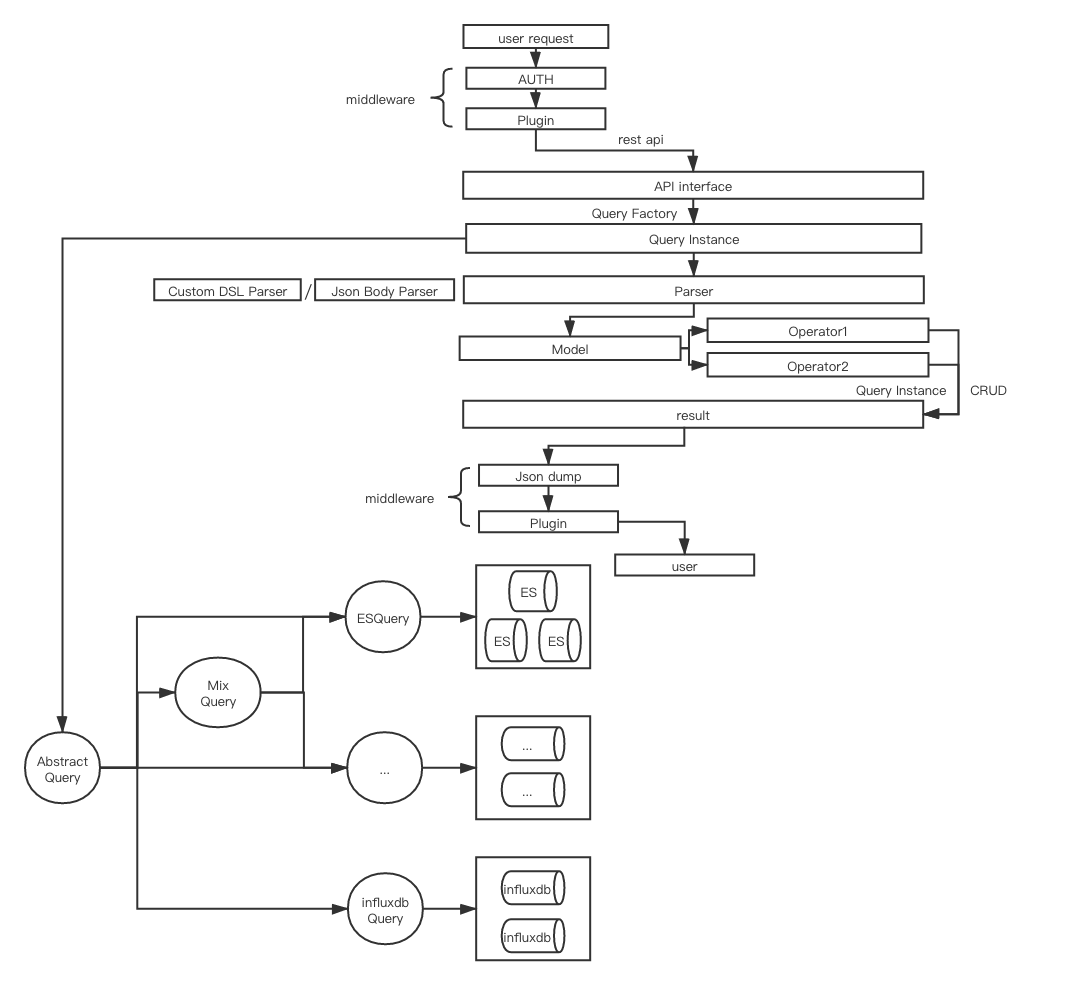
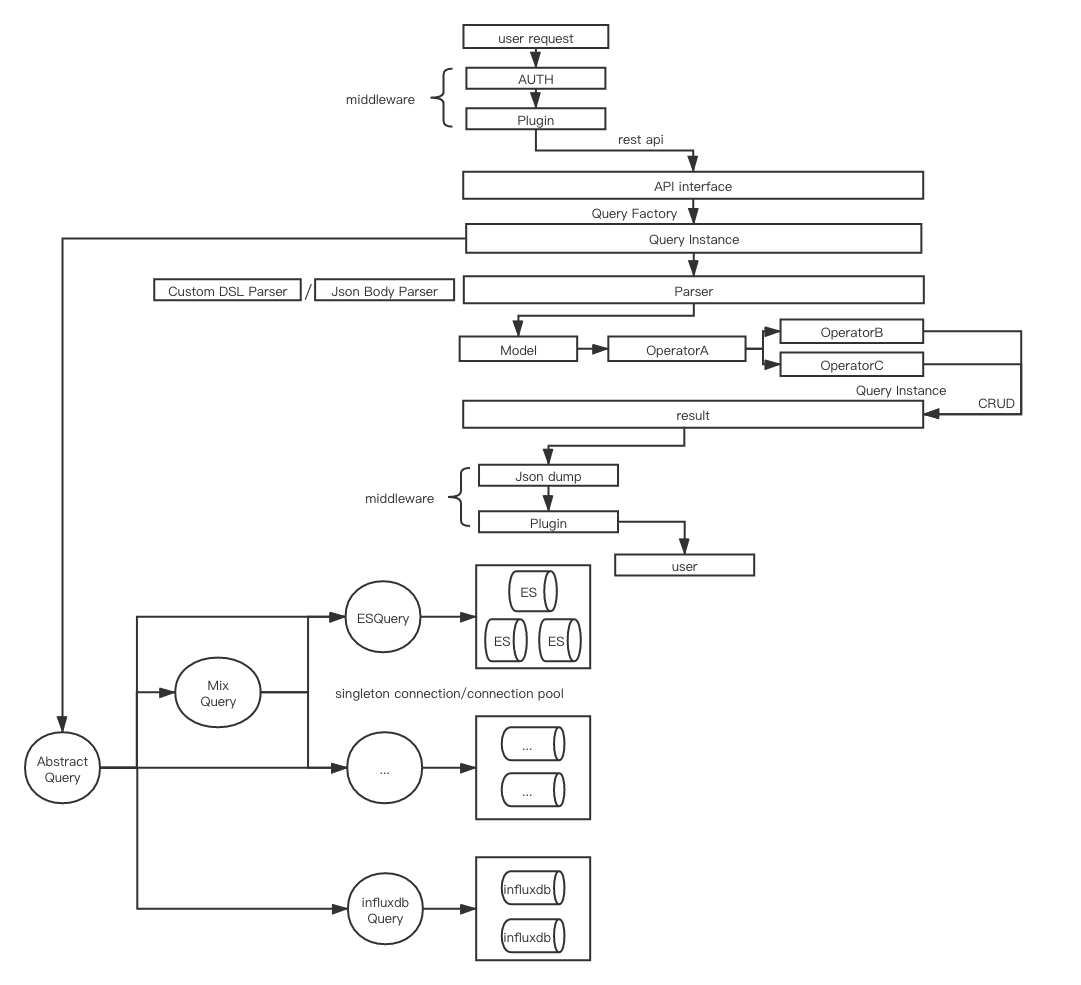
async influxdv backend support 50%

diff --git a/apps/influxdb/view.py b/apps/influxdb/view.py
@@ -3,20 +3,19 @@ from sanic_restplus import Resource
 from libs.rest import RestAssoc
 from libs.exception import Code
 from query.query_factory import QueryFactory
-ns = RestAssoc.ns_es
+ns = RestAssoc.ns_influx
 api = RestAssoc.api
-name = "es"
+name = "influx"
 
 
 @ns.route('/node')
-class ESNodes(Resource):
+class InFluxNodes(Resource):
     @ns.doc('list_all')
     async def get(self, request):
         """
-        list all nodes in a cluster
+        list all nodes in a cluster(Not implemented yet, The free version does not support cluster(太穷了😢))
         """
-        query = QueryFactory.create_query(name)
-        return await query.list()
+        raise Code.CurrentlyNotSupport
 
     @ns.doc('malloc_new_node')
     async def post(self, request):
@@ -26,21 +25,48 @@ class ESNodes(Resource):
         raise Code.CurrentlyNotSupport
 
 
-@ns.route('/index')
-class ESList(Resource):
-    @ns.doc('list_all_index')
+@ns.route('/db')
+class InFluxDBs(Resource):
+    @ns.doc('list_all_database')
     async def get(self, request):
         """
-        list all indexes in a cluster
+        list all databases
+        """
+        query = QueryFactory.create_query(name, {"db": "default"})
+        return await query.list()
+
+    @ns.doc('malloc_new_database')
+    @ns.param("json body", "json body", _in="body", example={"db": "testdb"})
+    async def post(self, request):
+        """
+        create a new database
+        """
+        query = QueryFactory.create_query(name, request.json)
+        return await query.create_meta()
+
+    @ns.doc('delete_database')
+    @ns.param("json body", "json body", _in="body", example={"db": "testdb"})
+    async def delete(self, request):
+        """
+        drop a database
+        """
+        query = QueryFactory.create_query(name, request.json)
+        return await query.delete_meta()
+
+
+@ns.route('/<db:string>/<measurement:string>')
+@ns.route('/<db:string>')
+class InFluxList(Resource):
+    @ns.doc('list_all_measurement')
+    async def get(self, request, db, measurement):
+        """
+        list all measurements in a db
         """
         query = QueryFactory.create_query(name, request.json)
         return await query.search_meta()
 
-    @ns.doc('create_new_index')
-    @ns.param("json body", "json body", _in="body", example={
-        "index": "twitter", 'settings': {'number_of_shards': 1},
-        'mappings': {'properties': {'field1': {'type': 'text'}}}})
-    async def post(self, request):
+    @ns.doc('create_new_measurement')
+    async def put(self, request, db, measurement):
         """
         create a new index in a cluster
         """
@@ -51,7 +77,7 @@ class ESList(Resource):
 
     @ns.doc('delete_given_index')
     @ns.param("index", "index name", _in="query", default="twitter")
-    async def delete(self, request):
+    async def delete(self, request, measurement):
         """
         delete a given index
         """
@@ -64,9 +90,8 @@ class ESList(Resource):
             return res
 
 
-@ns.route('/<index:string>')
-@ns.param('index', 'The index name')
-class ESData(Resource):
+@ns.route('/<db:string>/<measurement:string>/crud')
+class InFluxData(Resource):
     """act as a proxy and delegate your CRUD query to the real backend"""
 
     @ns.doc('get_data')
@@ -85,7 +110,7 @@ class ESData(Resource):
 
     @ns.doc('update_data')
     async def put(self, request, index):
-        """forward DSL to given index"""
+        """insert data"""
         request.json["index"] = index
         query = QueryFactory.create_query(name, request.json)
         return await query.update_data()

diff --git a/query/influx_query.py b/query/influx_query.py
@@ -1,0 +1,81 @@
+# -*- coding: utf-8 -*-
+from .base_query import Query
+from libs.db_util import DBUtil
+from libs.code import Code
+
+
+class InfluxQuery(Query):
+    def __init__(self, parsed_param):
+        super().__init__(parsed_param)
+        self.db_instance = DBUtil.influxdb[parsed_param["db"]]
+
+    async def create_meta(self, type_="database"):
+        """
+        create meta data according to param
+        :return:
+        """
+        if type_ == "database":
+            db = self.param["db"]
+            return await self.db_instance.create_database(db=db)
+        raise NotImplementedError("type: %s not implemented" % (type_, ))
+
+    async def create_data(self):
+        """
+        create data according to param
+        :return:
+        """
+        pass
+
+    async def search_meta(self):
+        """
+        search meta data
+        :return:
+        """
+        pass
+
+    async def search_data(self):
+        """
+        search data
+        :return:
+        """
+        pass
+
+    async def update_meta(self):
+        """
+        update meta data
+        :return:
+        """
+        pass
+
+    async def update_data(self):
+        """
+        update data
+        :return:
+        """
+        pass
+
+    async def delete_meta(self, type_="database"):
+        """
+        delete meta data
+        :return:
+        """
+        if type_ == "database":
+            db = self.param["db"]
+            return await self.db_instance.drop_database(db=db)
+        raise NotImplementedError("type: %s not implemented" % (type_,))
+
+    async def delete_data(self):
+        """
+        delete data
+        :return:
+        """
+        pass
+
+    async def list(self, type_="database"):
+        """
+        show cluster/database info
+        :return:
+        """
+        if type_ == "database":
+            return await self.db_instance.show_databases()
+        raise NotImplementedError("type: %s not implemented" % (type_, ))

diff --git a/libs/db_util.py b/libs/db_util.py
@@ -1,17 +1,33 @@
 # -*- coding: utf-8 -*-
 from aioelasticsearch import Elasticsearch
+from aioinflux import InfluxDBClient
+from config.settings import Settings
+
+
+class InfluxdbDict(dict):
+    def __getitem__(self, item: str) -> InfluxDBClient:
+        if item not in self:
+            db_instance = InfluxDBClient(host=Settings.INFLUX_HOST, port=Settings.INFLUX_PORT, db=item)
+            self.__setitem__(item, db_instance)
+        return super().__getitem__(item)
 
 
 class DBUtil(object):
     es: Elasticsearch = None
+    influxdb: InfluxdbDict = InfluxdbDict()
 
 
 async def setup_db(app, loop):
     DBUtil.es = Elasticsearch(hosts=app.config.ES_HOSTS)
+    DBUtil.influxdb["default"] = InfluxDBClient(
+        host=Settings.INFLUX_HOST, port=Settings.INFLUX_PORT, db=Settings.INFLUX_DB
+    )
 
 
 async def close_db(app, loop):
     await DBUtil.es.close()
+    for v in DBUtil.influxdb.values():
+        await v.close()
 
 
 def setup_database(app):

diff --git a/query/es_query.py b/query/es_query.py
@@ -9,7 +9,9 @@ class ESQuery(Query):
         create meta data according to param
         :return:
         """
-        pass
+        index = self.param["index"]
+        body = self.param["body"]
+        return await DBUtil.es.index(index, body)
 
     async def create_data(self):
         """
@@ -39,15 +41,6 @@ class ESQuery(Query):
         """
         pass
 
-    async def insert_meta(self):
-        """
-        insert meta data
-        :return:
-        """
-        index = self.param["index"]
-        body = self.param["body"]
-        return await DBUtil.es.index(index, body)
-
     async def update_data(self):
         """
         update data
@@ -70,7 +63,7 @@ class ESQuery(Query):
         """
         pass
 
-    async def list(self):
+    async def list(self, type_="cluster"):
         """
         show cluster info
         :return:

diff --git a/query/base_query.py b/query/base_query.py
@@ -42,13 +42,6 @@ class Query(object):
         """
         raise Code.CurrentlyNotSupport
 
-    async def insert_meta(self):
-        """
-        insert meta data
-        :return:
-        """
-        raise Code.CurrentlyNotSupport
-
     async def update_data(self):
         """
         update data
@@ -71,7 +64,7 @@ class Query(object):
         raise Code.CurrentlyNotSupport
 
     @abc.abstractmethod
-    async def list(self):
+    async def list(self, type_="cluster"):
         """
         show cluster info
         :return:

diff --git a/query/query_factory.py b/query/query_factory.py
@@ -1,6 +1,7 @@
 # -*- coding: utf-8 -*-
 from .base_query import Query
 from .es_query import ESQuery
+from .influx_query import InfluxQuery
 
 
 class QueryFactory(object):
@@ -8,4 +9,6 @@ class QueryFactory(object):
     def create_query(name: str, param: dict = None) -> Query:
         if "es" in name.lower():
             return ESQuery(param)
+        elif "influx" in name.lower():
+            return InfluxQuery(param)
         raise NotImplementedError("query: %s not implemented" % (name, ))

diff --git a/libs/rest.py b/libs/rest.py
@@ -29,6 +29,7 @@ class RestAssoc(object):
     api: Api = Api(version='1.0', title='HostMonitor API',
                    description='monitor metadata of influxdb and ES, rest api support for CRUD metadata and results')
     ns_es: namespace = api.namespace('es', description='ElasticSearch operations')
+    ns_influx: namespace = api.namespace('influx', description='InfluxDB operations')
     api._default_error_handler = customer_rest_exception_handler
 
 

diff --git a/config/local.py b/config/local.py
@@ -7,5 +7,6 @@ class Settings(BasicSettings):
     # ES_HOSTS: list = ["bw:10000", ]
     ES_HOSTS: list = ["es_dev", ]
 
-    INFLUX_HOST = ""
-    INFLUX_PORT = ""
+    INFLUX_HOST = "localhost"
+    INFLUX_PORT = 8086
+    INFLUX_DB = "my_db"

diff --git a/apps/routes.py b/apps/routes.py
@@ -1,3 +1,4 @@
 # -*- coding: utf-8 -*-
 
 from apps.es.view import *
+from apps.influxdb.view import *
